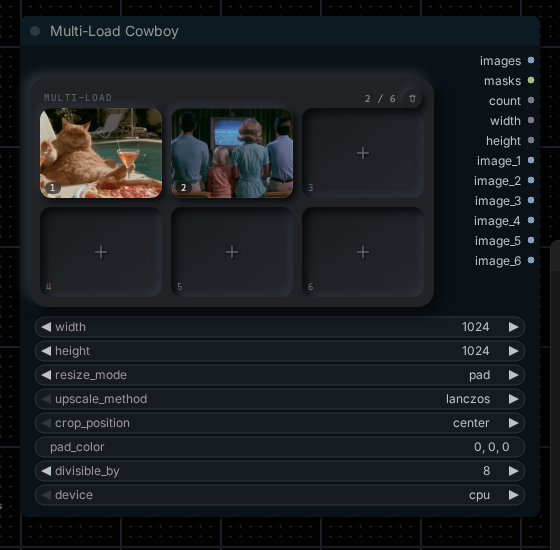
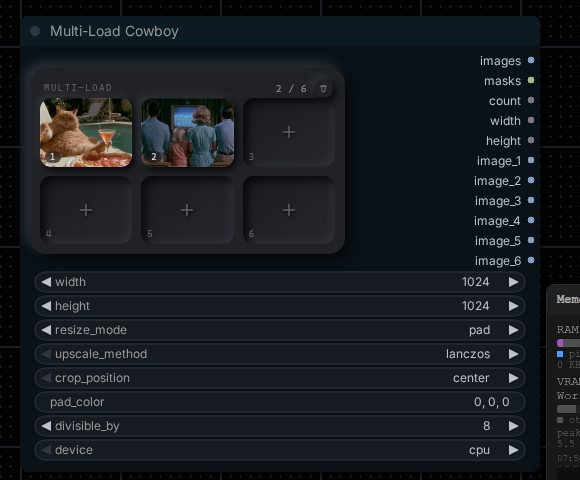
Fix Multi-Load Cowboy values shifting on reload
ComfyUI writes widgets_values by absolute index, leaving a hole for every
widget with serialize === false, but reads them back compacted: it walks
the serializable widgets and consumes the array in order. Those two only
agree while the non-serializable widgets sit last. The grid and its lift
sat first, so one save and reload shifted every value along - height ended
up holding a string like "(empty)", which a number widget cannot drag or
increment.

Both DOM widgets now sit at the end of node.widgets, and configure()
repairs an array saved by the old order by dropping its leading holes, so
workflows already saved come back correct.

Moving them changed how the grid is placed: the lift is measured from
where it lands rather than from the output band, its height is capped so
the panel always clears the first setting below it, and the panel width is
held to what keeps the cells in proportion on a wide node.

Covered by a save/load round trip in tests/multi_load_cowboy, plus checks
that no serializable widget sits behind ours and that the grid can never
reach the settings.

diff --git a/js/multi_load_cowboy.js b/js/multi_load_cowboy.js
@@ -30,7 +30,10 @@ const CELL_RATIO = 0.72;   /* cell height / cell width */
 const SLOT_H = 20;         /* one output row */
 const LABEL_RESERVE = 96;  /* keep the output labels clear of the grid */
 const MIN_GRID_BOX = 170;  /* narrower than this, sit under the slots */
+const MIN_BAND = 90;       /* too little room to bother sharing the band */
 const TOP_INSET = 12;      /* never ride up into the title bar */
+const CLEARANCE = 8;       /* gap kept between the grid and the settings */
+const ROW_SPACING = 4;     /* the frontend adds this to every widget box */
 
 /* Bumped on every upload so replaced files re-fetch instead of showing
    a stale browser cache entry. */
@@ -593,21 +596,54 @@ function layout(boxWidth) {
 /**
  * Where the panel sits, and how far to pull it up.
  *
- * With no inputs, the band beside the output labels is dead space. A
- * spacer widget with a negative height moves the grid up into it, so the
- * outputs end up alongside the grid instead of stacked above it. On a
- * node too narrow to share that band, the grid drops back underneath.
+ * With no inputs, the band beside the output labels is dead space. The
+ * grid widget lives at the end of the widget list, where it cannot
+ * disturb saved values, and a lift widget with a negative height moves
+ * it up into that band. The height is capped to the band so the grid can
+ * never land on top of the settings below it. A node too narrow to share
+ * the band keeps the grid where it sits, under everything else.
+ *
+ * `liftY` is where the lift itself lands and `settingsTop` is where the
+ * first real widget sits. Both depend only on the widgets before them,
+ * so feeding them back in here cannot oscillate.
  */
-function plan(node, elementWidth) {
+function plan(node, elementWidth, liftY, settingsTop) {
     const elemW = elementWidth ||
         Math.max(120, (node.size?.[0] || 380) - DOM_MARGIN * 2);
-    const beside = elemW - LABEL_RESERVE >= MIN_GRID_BOX;
-    const geometry = layout(beside ? elemW - LABEL_RESERVE : elemW);
     const band = (node.outputs?.length || 0) * SLOT_H;
-    const pull = beside
-        ? Math.max(0, Math.min(geometry.height, band - TOP_INSET))
+    const ceiling = settingsTop || band + 6;
+    /* The widget box is the panel plus the frontend's margins, and it
+       has to clear the first setting below it. */
+    const roomBeside = Math.max(
+        0, ceiling - TOP_INSET - DOM_MARGIN * 2 - ROW_SPACING - CLEARANCE
+    );
+    const beside = elemW - LABEL_RESERVE >= MIN_GRID_BOX &&
+        roomBeside >= MIN_BAND;
+    const available = beside ? elemW - LABEL_RESERVE : elemW;
+    let geometry = layout(available);
+    let height = geometry.height;
+
+    if (beside) {
+        /* The band sets the height, so a very wide node would stretch
+           the cells into letterboxes. Hold the panel to the width that
+           keeps them in proportion and leave the slack to the labels. */
+        height = Math.min(height, roomBeside);
+        const rows = geometry.rows;
+        const cellH = (height - HEAD_H - PAD * 2 - GAP * (rows - 1)) / rows;
+        const ideal = Math.round(
+            geometry.cols * (cellH / CELL_RATIO) + PAD * 2 +
+            GAP * (geometry.cols - 1)
+        );
+        const box = Math.max(MIN_GRID_BOX, Math.min(available, ideal));
+        if (box !== available) geometry = { ...layout(box), cols: geometry.cols };
+    }
+
+    /* The lift's own box also gains ROW_SPACING, so ask for that much
+       more to land the grid on TOP_INSET. */
+    const pull = beside && liftY > 0
+        ? Math.max(0, liftY - TOP_INSET + ROW_SPACING)
         : 0;
-    return { ...geometry, beside, pull, elemW };
+    return { ...geometry, natural: geometry.height, height, beside, pull, elemW };
 }
 
 /* ------------------------------------------------------------------ */
@@ -1033,10 +1069,34 @@ function attachGrid(node) {
 
     /* --- widget --- */
 
+    /* Where the lift lands naturally: after every real widget. Measured
+       once the frontend has laid out, estimated before that. */
+    function liftY() {
+        if (spacer && typeof spacer.y === "number" && spacer.y > 0) {
+            return spacer.y;
+        }
+        const band = (node.outputs?.length || 0) * SLOT_H;
+        const rows = (node.widgets || []).filter(
+            (w) => !w.hidden && w !== spacer && w !== widget
+        ).length;
+        return band + rows * 24 + 6;
+    }
+
+    /* Top of the first real widget below the band: the line the grid
+       must stay above. Measured once laid out, estimated before that. */
+    function settingsTop() {
+        let top = Infinity;
+        for (const w of node.widgets || []) {
+            if (w === spacer || w === widget || w.hidden) continue;
+            if (typeof w.y === "number" && w.y > 0) top = Math.min(top, w.y);
+        }
+        return Number.isFinite(top) ? top : 0;
+    }
+
     /* The panel is measured from the widget box the frontend hands us,
        never from our own guess at its margins, so nothing gets clipped. */
     function currentPlan() {
-        return plan(node, root.clientWidth || 0);
+        return plan(node, root.clientWidth || 0, liftY(), settingsTop());
     }
 
     /** Height to ask for: the panel plus the frontend's own margins. */
@@ -1060,13 +1120,16 @@ function attachGrid(node) {
         return next;
     }
 
+    let spacer;
+    let widget;
+
     const spacerEl = document.createElement("div");
     spacerEl.className = "mlc-spacer";
     spacerEl.style.pointerEvents = "none";
 
     /* A negative height moves everything after it up, which lifts the
        grid into the empty band beside the output labels. */
-    const spacer = node.addDOMWidget("multi_load_lift", "mlc_lift", spacerEl, {
+    spacer = node.addDOMWidget("multi_load_lift", "mlc_lift", spacerEl, {
         serialize: false,
         hideOnZoom: false,
         getMinHeight: () => -currentPlan().pull,
@@ -1079,7 +1142,7 @@ function attachGrid(node) {
         return { minHeight: pull, maxHeight: pull, minWidth: 0 };
     };
 
-    const widget = node.addDOMWidget("multi_load_grid", "mlc_grid", root, {
+    widget = node.addDOMWidget("multi_load_grid", "mlc_grid", root, {
         serialize: false,
         hideOnZoom: false,
         getMinHeight: () => requestHeight(),
@@ -1089,17 +1152,16 @@ function attachGrid(node) {
        flag off the widget itself. Core's audio widget sets both. */
     widget.serialize = false;
 
-    /* The grid is the face of the node, so it goes above the settings,
-       with its lift immediately before it. Widget values are stored
-       positionally, and this runs before the graph configures the node,
-       so save and load agree on the order. */
-    for (const w of [widget, spacer]) {
-        const at = node.widgets.indexOf(w);
-        if (at > 0) {
-            node.widgets.splice(at, 1);
-            node.widgets.unshift(w);
-        }
-    }
+    /*
+     * Both of ours stay at the END of node.widgets, and nothing may be
+     * inserted in front of a real widget. The frontend saves widget
+     * values by absolute index, leaving a hole for anything with
+     * serialize === false, but loads them compacted - it walks the
+     * serializable widgets and consumes the array in order. Those two
+     * only agree while every non-serializable widget sits last;
+     * anywhere else, one reload shifts every value along by one and a
+     * number widget ends up holding a string.
+     */
 
     widget.computeSize = function (width) {
         applyLayout();
@@ -1174,6 +1236,39 @@ function attachGrid(node) {
     widget.mlcRefresh = refresh;
     node.mlcContentBottom = contentBottom;
     return { widget, spacer, refresh, currentPlan, fitHeight, contentBottom };
+}
+
+/**
+ * Repair widgets_values saved by a build that put the grid widgets in
+ * front of the real ones.
+ *
+ * Those saves carry a leading null per non-serializable widget, while
+ * the loader expects a compacted array, so every value lands one or two
+ * widgets late. Dropping the leading nulls until the array matches the
+ * widget count puts them back where they belong. Only leading nulls go:
+ * none of this node's widgets ever holds a null of its own.
+ */
+function repairWidgetValues(node, info) {
+    const values = info?.widgets_values;
+    if (!Array.isArray(values)) return 0;
+
+    const expected = (node.widgets || [])
+        .filter((w) => w.serialize !== false).length;
+    if (!expected || values.length <= expected) return 0;
+
+    let dropped = 0;
+    while (values.length > expected &&
+           (values[0] === null || values[0] === undefined)) {
+        values.shift();
+        dropped += 1;
+    }
+    if (dropped) {
+        console.info(
+            `[MultiLoadCowboy] repaired ${dropped} shifted widget ` +
+            "value(s) from an older save"
+        );
+    }
+    return dropped;
 }
 
 /* ------------------------------------------------------------------ */
@@ -1266,6 +1361,18 @@ app.registerExtension({
                 : undefined;
             hidden.forEach((w, i) => (w.type = saved[i]));
             return result;
+        };
+
+        /* configure() applies widgets_values, so the repair has to run
+           before it, not in onConfigure which fires afterwards. */
+        const configure = nodeType.prototype.configure;
+        nodeType.prototype.configure = function (info) {
+            try {
+                repairWidgetValues(this, info);
+            } catch (err) {
+                console.error("[MultiLoadCowboy] value repair failed", err);
+            }
+            return configure ? configure.apply(this, arguments) : undefined;
         };
 
         const onConfigure = nodeType.prototype.onConfigure;
